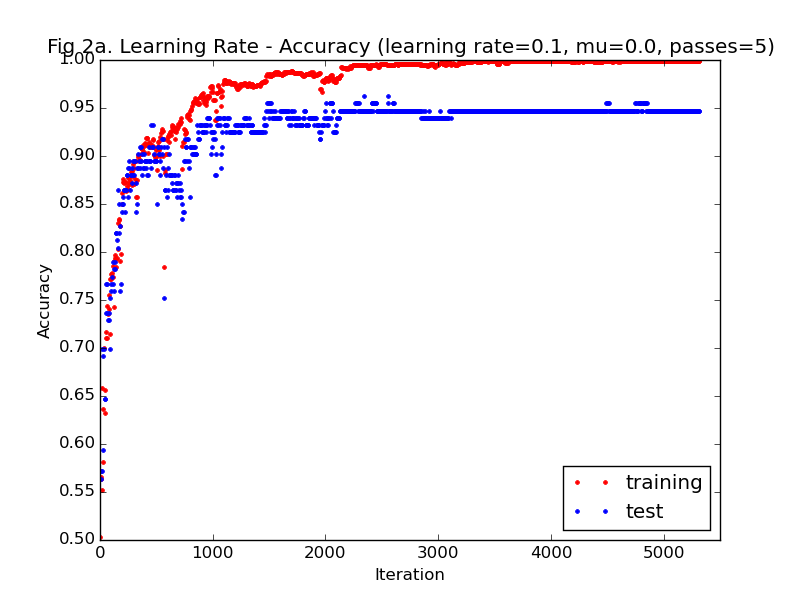
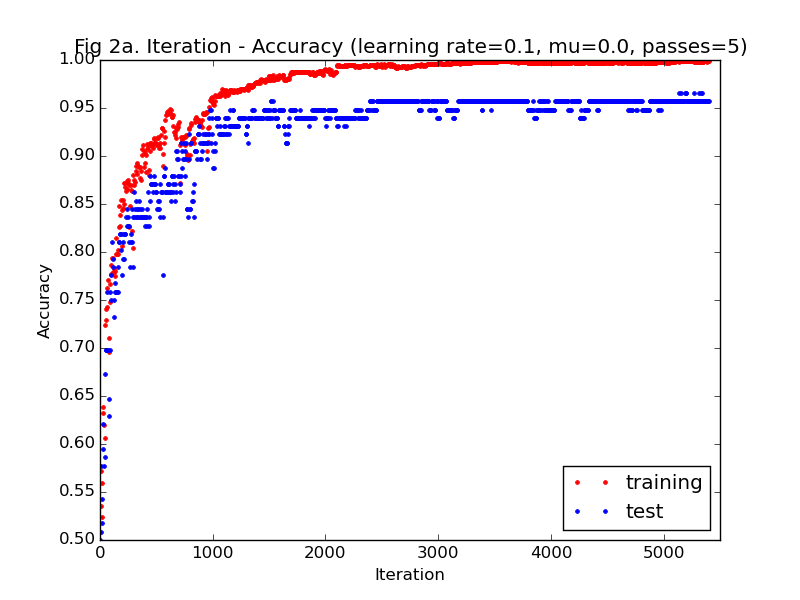
Update Logistic Regression
1. update figures
2. add tfidf

Changed region(s): [[0.0625, 0.06, 0.9688, 0.6], [0.125, 0.75, 0.1562, 0.81], [0.125, 0.66, 0.1562, 0.72]]

diff --git a/logreg/logreg.py b/logreg/logreg.py
@@ -1,13 +1,14 @@
 __author__ = 'Jianxiang Fan'
 
-import random
 import argparse
+import random
+import time
 from math import exp, log
 from collections import defaultdict
 
 import numpy
 
-kSEED = 1701
+kSEED = time.time()
 kBIAS = "BIAS_CONSTANT"
 
 random.seed(kSEED)
@@ -32,23 +33,32 @@ class Example:
     Class to represent a logistic regression example
     """
 
-    def __init__(self, label, words, vocab, df):
+    def __init__(self, label, words, vocab, idf):
         """
         Create a new example
 
         :param label: The label (0 / 1) of the example
         :param words: The words in a list of "word:count" format
         :param vocab: The vocabulary to use as features (list)
+        :param idf: Inverse document frequency of the words
         """
         self.nonzero = {}
         self.y = label
         self.x = numpy.zeros(len(vocab))
+        self.tfidf = numpy.zeros(len(vocab))
+        total_wc = 0
         for word, count in [x.split(":") for x in words]:
             if word in vocab:
                 assert word != kBIAS, "Bias can't actually appear in document"
                 self.x[vocab.index(word)] += float(count)
                 self.nonzero[vocab.index(word)] = word
+                total_wc += float(count)
         self.x[0] = 1
+        if idf:
+            for k, v in self.nonzero.iteritems():
+                tf = self.x[k] / total_wc
+                self.tfidf[k] = 100 * tf * idf[k]
+            self.tfidf[0] = 1
 
 
 class LogReg:
@@ -99,14 +109,15 @@ class LogReg:
         :param use_tfidf: A boolean to switch between the raw data and the tfidf representation
         :return: Return the new value of the regression coefficients
         """
-        h = lambda theta, x: sigmoid(numpy.dot(theta, x))
-        delta = train_example.y - h(self.beta, train_example.x)
+        x = train_example.x if not use_tfidf else train_example.tfidf
+        h = lambda theta, v: sigmoid(numpy.dot(theta, v))
+        delta = train_example.y - h(self.beta, x)
         if self.mu == 0.0:
-            self.beta += self.step(iteration) * delta * train_example.x
+            self.beta += self.step(iteration) * delta * x
         else:
             for ii in xrange(len(self.beta)):
-                if train_example.x[ii] != 0:
-                    self.beta[ii] = (self.beta[ii] + self.step(iteration) * delta * train_example.x[ii]) * \
+                if x[ii] != 0:
+                    self.beta[ii] = (self.beta[ii] + self.step(iteration) * delta * x[ii]) * \
                                     (1 - 2 * self.step(iteration) * self.mu) ** (self.marker[ii] + 1)
                     self.marker[ii] = 0
                 else:
@@ -114,11 +125,12 @@ class LogReg:
         return self.beta
 
     def sg_update2(self, train_example, iteration, use_tfidf=False):
-        h = lambda theta, x: sigmoid(numpy.dot(theta, x))
-        delta = train_example.y - h(self.beta, train_example.x)
-        self.beta[0] += self.step(iteration) * delta * train_example.x[0]
+        x = train_example.x if not use_tfidf else train_example.tfidf
+        h = lambda theta, v: sigmoid(numpy.dot(theta, v))
+        delta = train_example.y - h(self.beta, x)
+        self.beta[0] += self.step(iteration) * delta * x[0]
         self.beta[1:] = \
-            (1 - self.step(iteration) * self.mu) * self.beta[1:] + self.step(iteration) * delta * train_example.x[1:]
+            (1 - self.step(iteration) * self.mu) * self.beta[1:] + self.step(iteration) * delta * x[1:]
         return self.beta
 
     def significant_features(self, count=20, postive=True):
@@ -138,6 +150,7 @@ def read_dataset(positive, negative, vocab, test_proportion=.1):
     :param test_proportion: How much of the data should be reserved for test
     """
     df = [float(x.split("\t")[1]) for x in open(vocab, 'r') if '\t' in x]
+    idf = [log(1 + float(f) / (len(positive) + len(negative))) for f in df]
     vl = [x.split("\t")[0] for x in open(vocab, 'r') if '\t' in x]
     assert vl[0] == kBIAS, \
         "First vocab word must be bias term (was %s)" % vl[0]
@@ -146,7 +159,7 @@ def read_dataset(positive, negative, vocab, test_proportion=.1):
     test_set = []
     for label, filepath in [(1, positive), (0, negative)]:
         for line in open(filepath):
-            ex = Example(label, line.split(), vl, df)
+            ex = Example(label, line.split(), vl, idf)
             if random.random() <= test_proportion:
                 test_set.append(ex)
             else:
@@ -187,6 +200,8 @@ if __name__ == "__main__":
                            type=float, default=0.0, required=False)
     argparser.add_argument("--step", help="Initial SG step size",
                            type=float, default=0.1, required=False)
+    argparser.add_argument("--alpha", help="Parameter for step update",
+                           type=float, default=0.0, required=False)
     argparser.add_argument("--positive", help="Positive class",
                            type=str, default="../data/hockey_baseball/positive", required=False)
     argparser.add_argument("--negative", help="Negative class",
@@ -195,6 +210,7 @@ if __name__ == "__main__":
                            type=str, default="../data/hockey_baseball/vocab", required=False)
     argparser.add_argument("--passes", help="Number of passes through train",
                            type=int, default=1, required=False)
+    argparser.add_argument("--tfidf", help="Use tfidf", action='store_true')
 
     args = argparser.parse_args()
     train, test, vocab_list = read_dataset(args.positive, args.negative, args.vocab)
@@ -202,13 +218,14 @@ if __name__ == "__main__":
     print("Read in %i train and %i test" % (len(train), len(test)))
 
     # Initialize model
-    lr = LogReg(len(vocab_list), args.mu, step_update_build(args.step, alpha=0.05))
+    lr = LogReg(len(vocab_list), args.mu, step_update_build(args.step, args.alpha))
     # Iterations
     update_number = 0
     for pp in xrange(args.passes):
+        random.shuffle(train)
         for i in train:
             update_number += 1
-            lr.sg_update2(i, update_number)
+            lr.sg_update2(i, update_number, use_tfidf=args.tfidf)
             if update_number % 5 == 1:
                 train_lp, train_acc = lr.progress(train)
                 ho_lp, ho_acc = lr.progress(test)
